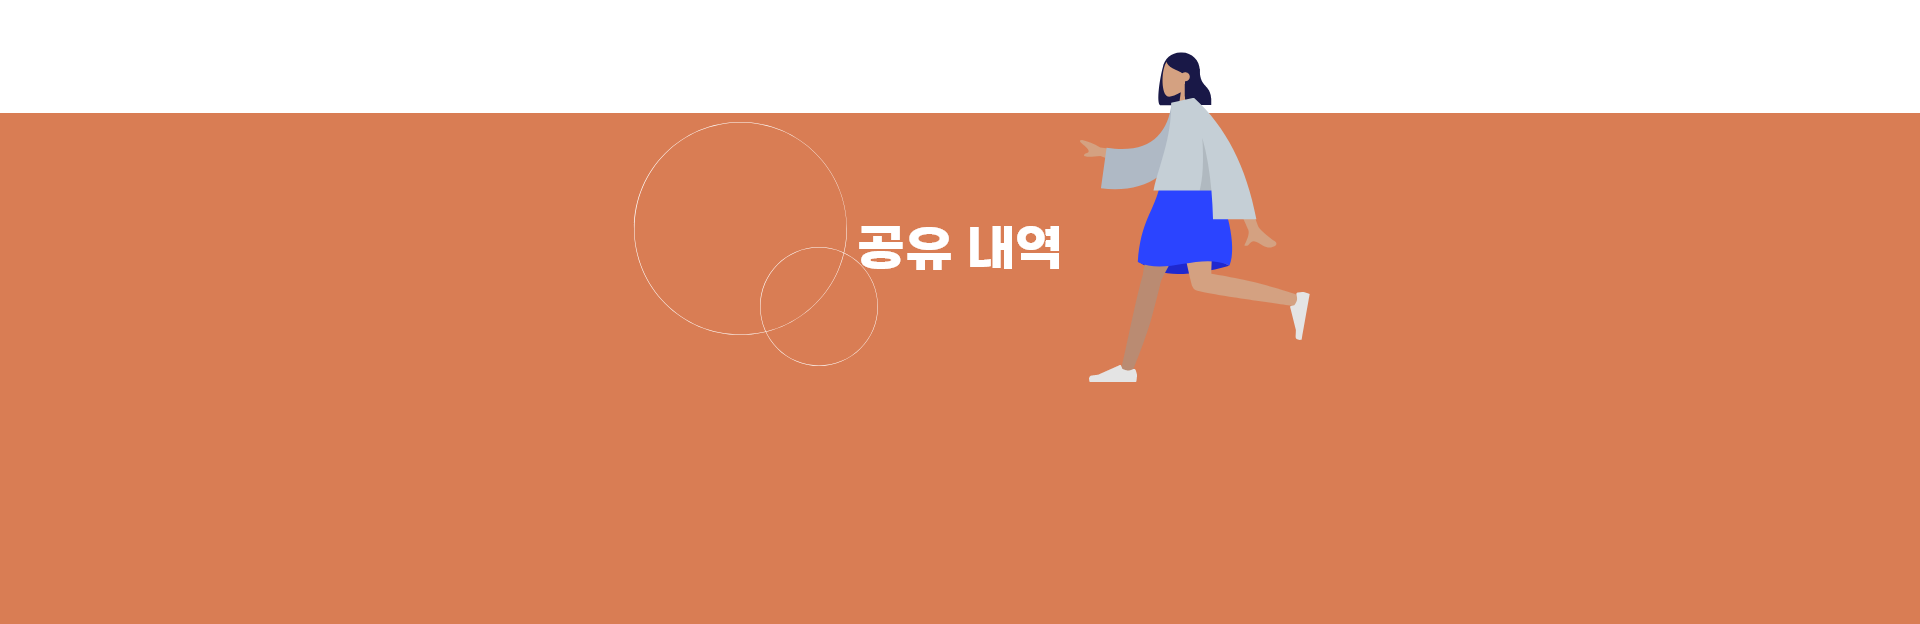
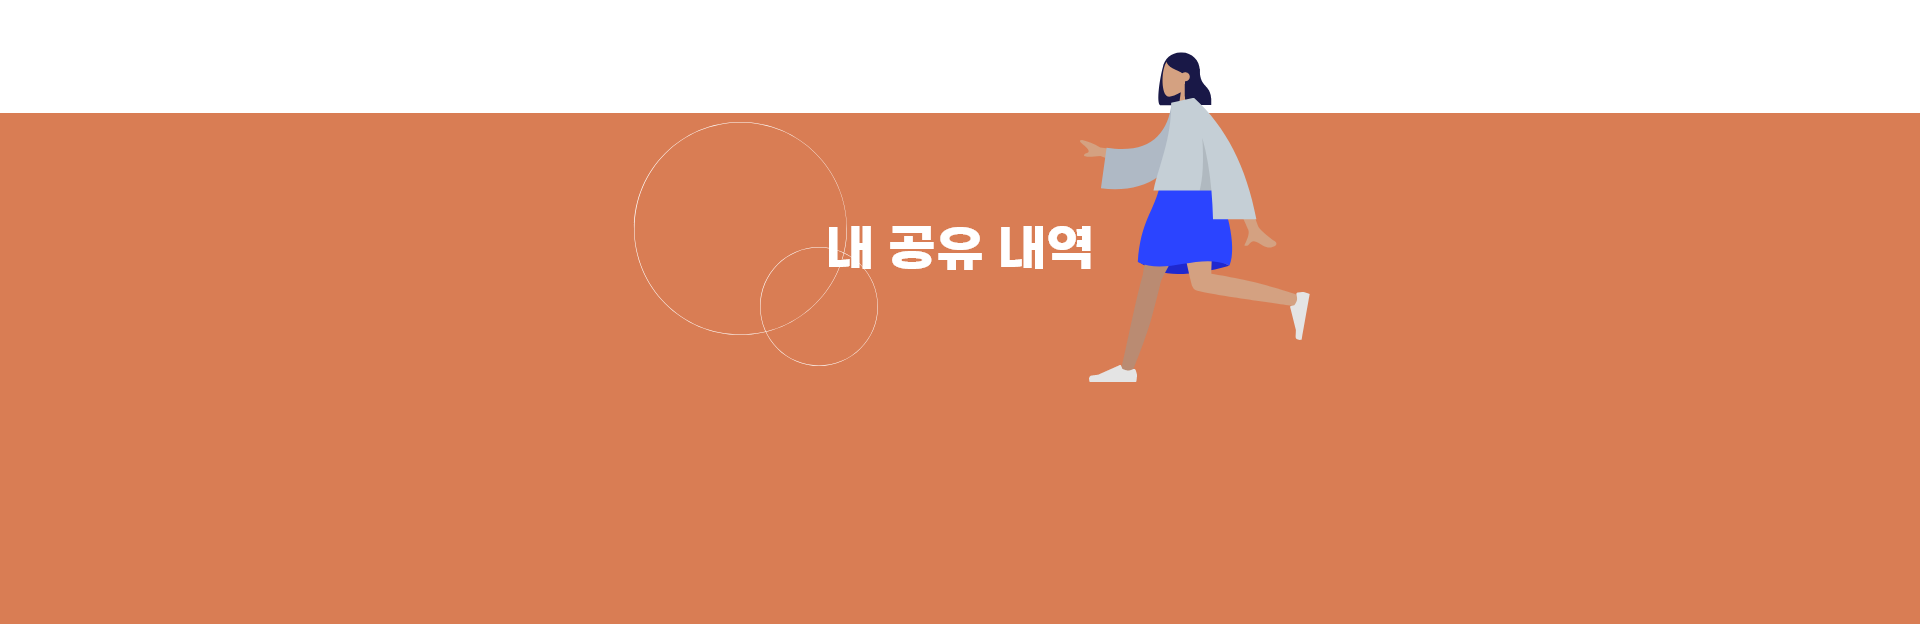
내 공유 내역 완료 - list 제외

Changed region(s): [[0.4062, 0.3654, 0.5938, 0.4567]]

diff --git a/src/routes/MyShareList.js b/src/routes/MyShareList.js
@@ -1,22 +1,117 @@
 import React from 'react';
-import TopBar from '../components/TopBar'
-import banner from '../IMG/sharelist_banner.png';
+import {Link} from 'react-router-dom';
+import TopBar from '../components/TopBar';
+import sharelist_Banner from '../IMG/sharelist_banner.png';
+
+import './MyShareList.css';
 
 class MyShareList extends React.Component{
+    constructor(){
+        super();
+        this.state ={
+            isItemSelected: true,
+        }
+    }
+    
     componentDidMount(){
         //데이터 로딩
 
     }
 
+    itemTapSelect = () =>{
+        this.setState({isItemSelected: true});
+    }
+    talentTapSelect = () =>{
+        this.setState({isItemSelected: false});
+    }
+
+    renderItemTap = () => {
+        return(
+            <div itemTap_area>
+                        <div className="sellList_area">
+                            <div className="sellList_title">내가 공유한 물품</div>
+                            <div className="sellList_content">
+
+                            </div>
+                        </div>
+                        <div className="purchaseList_area">
+                            <div className="purchaseList_title">내가 구매한 물품</div>
+                            <div className="purchaseList_content">
+
+                            </div>
+                        </div>
+                        <div className="applyList_area">
+                            <div className="applyList_title">구매 신청 내역</div>
+                            <div className="applyList_content">
+
+                            </div>
+                        </div>
+                    </div>
+        );
+    }
+
+    renderTalentTap = () =>{
+        return(
+            <div itemTap_area>
+                        <div className="sellList_area">
+                            <div className="sellList_title">내가 공유한 재능</div>
+                            <div className="sellList_content">
+
+                            </div>
+                        </div>
+                        <div className="purchaseList_area">
+                            <div className="purchaseList_title">공유받은 재능</div>
+                            <div className="purchaseList_content">
+
+                            </div>
+                        </div>
+                        <div className="applyList_area">
+                            <div className="applyList_title">공유 신청 내역</div>
+                            <div className="applyList_content">
+
+                            </div>
+                        </div>
+                    </div>
+
+        );
+    }
 
     render(){
+        const {isItemSelected} = this.state;
         return(
             <div>
                 <div className="header">
                     <TopBar/>
                 </div>
-                <div className="mysharelist_banner">
-                    <img src={banner}/>
+                <div className="sharelist_banner">
+                    <img src={sharelist_Banner}/>
+                </div>
+                <div className="sharelist_canvas">
+                    <table className="sharelist_selectTap">
+                        <tr>
+                            <td className="sharelist_itemTap"
+                                style={isItemSelected?
+                                        {backgroundColor: '#342755', color: 'white'}
+                                        : {backgroundColor: 'white', color: 'black'}}
+                                onClick={this.itemTapSelect}
+                            >
+                                중고 물품 공유
+                            </td>
+                            <td className="sharelist_talentTap"
+                                style={isItemSelected?
+                                    {backgroundColor: 'white', color: 'black'}
+                                    : {backgroundColor: '#342755', color: 'white'}}
+                                onClick={this.talentTapSelect}
+                            >
+                                재능 공유
+                            </td>
+                        </tr>
+                    </table>
+                    
+                    {isItemSelected && this.renderItemTap()}
+                    {isItemSelected || this.renderTalentTap()}
+
+
                 </div>
             </div>
         );

diff --git a/src/routes/MyShareList.css b/src/routes/MyShareList.css
@@ -1,0 +1,90 @@
+.header{
+    font-family:'NanumSquare R';
+    width:120rem;
+    height:8.563rem;
+    position: absolute;
+    z-index: 10;
+}
+
+.sharelist_banner{
+    margin-top:8.563rem;
+    width: 100vw;
+    height:36.69rem;
+}
+
+.sharelist_banner img{
+    width: 120rem;
+    position:absolute;
+    z-index:1;
+}
+
+.sharelist_canvas{
+    width:81.19rem;
+    height: 130.9rem;
+    margin: -13.56rem  19.38rem 0rem 19.44rem;
+    box-shadow: 0 0.1875rem 0.375em 0 rgba(0,0,0,0.16);
+    background-color: #ffffff;
+    position: absolute;
+    z-index: 2;
+
+    font-family: 'GmarketSans L';
+    font-size: 1.25rem;
+}
+.sharelist_selectTap{
+    margin-left: auto;
+    margin-right: auto;
+    margin-top: 3.813rem;
+
+    vertical-align: middle;
+    text-align: center;
+
+    /* border: 0.0625rem solid #342755; */
+    
+    background-color: #342755;
+}
+.sharelist_itemTap{
+    width: 21.25rem;
+    height: 5.063rem;
+    background-color: white;
+
+    border: 0.0625rem solid #342755;
+
+    font-family:'GmarketSans M';
+    font-size:  1.563rem;
+
+    cursor:pointer;
+}
+.sharelist_talentTap{
+    width: 21.25rem;
+    height: 5.063rem;
+
+    background-color: white;
+
+    border: 0.0625rem solid #342755;
+
+    font-family:'GmarketSans M';
+    font-size:  1.563rem;
+
+    cursor:pointer;
+}
+
+.sellList_area , .purchaseList_area, .applyList_area{
+    text-align: center;
+}
+
+.sellList_title , .purchaseList_title, .applyList_title{
+    font-family: 'GmarketSans B';
+    font-size: 1.875rem;
+
+    margin-top:2.188rem;
+}
+
+.sellList_content , .purchaseList_content, .applyList_content{
+    width: 77.19rem;
+    height: 17.88rem;
+
+    margin-left: auto;
+    margin-right: auto;
+
+    background-color: #707070;
+}
